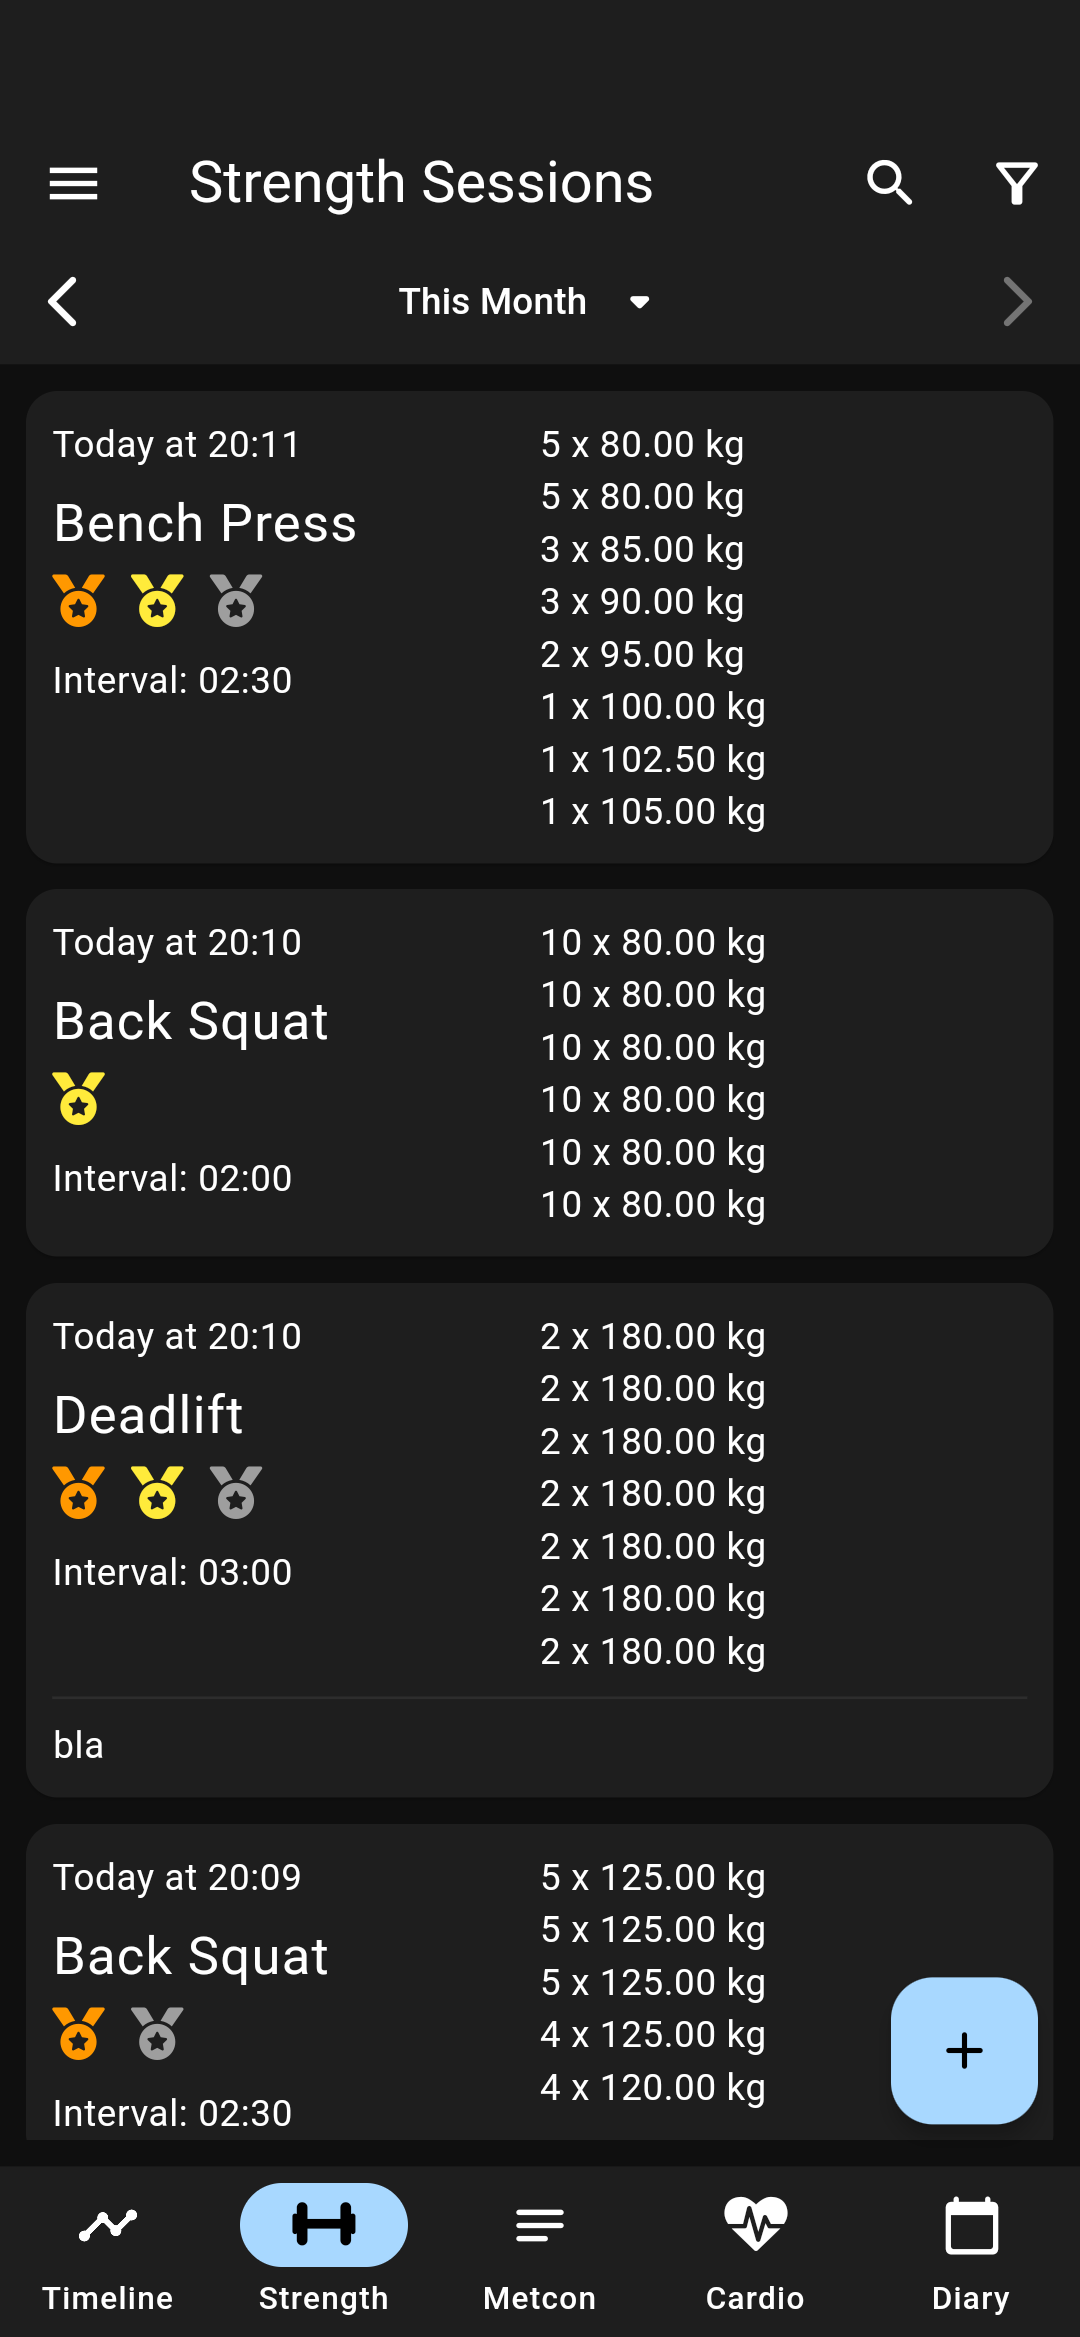
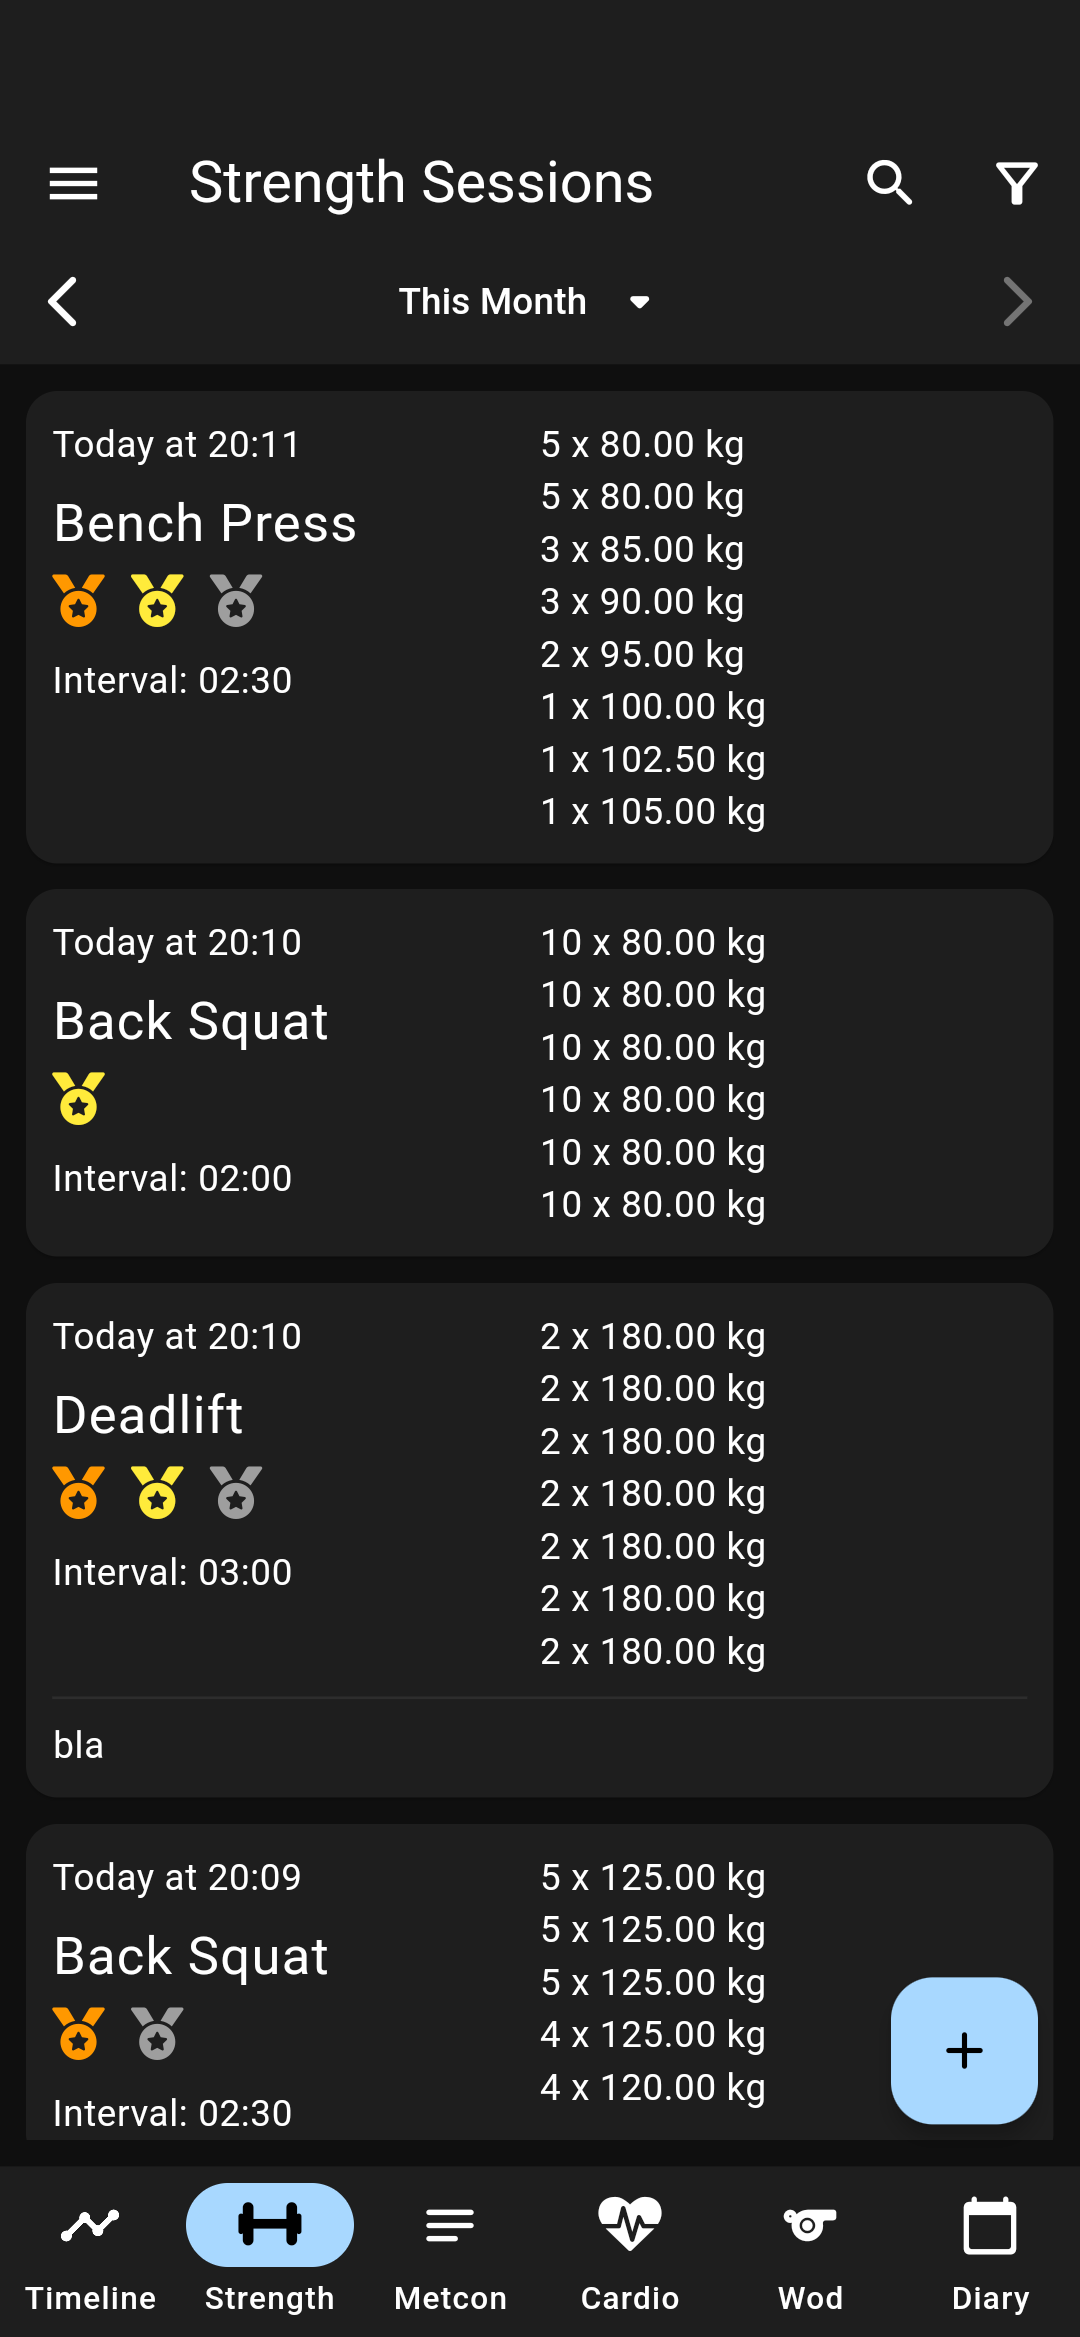
feat: update screenshots & add wod screenshots

diff --git a/sport-log-client/integration_test/screenshots.dart b/sport-log-client/integration_test/screenshots.dart
@@ -44,6 +44,8 @@ import 'package:sport_log/pages/workout/strength_sessions/strength_details_page.
 import 'package:sport_log/pages/workout/strength_sessions/strength_edit_page.dart';
 import 'package:sport_log/pages/workout/strength_sessions/strength_overview_page.dart';
 import 'package:sport_log/pages/workout/timeline/timeline_page.dart';
+import 'package:sport_log/pages/workout/wod/wod_edit_page.dart';
+import 'package:sport_log/pages/workout/wod/wod_overview_page.dart';
 import 'package:sport_log/widgets/app_icons.dart';
 import 'package:sport_log/widgets/main_drawer.dart';
 
@@ -112,6 +114,7 @@ Finder navItem(String text) => find.ancestor(
 final strengthNavItem = navItem("Strength");
 final metconNavItem = navItem("Metcon");
 final cardioNavItem = navItem("Cardio");
+final wodNavItem = navItem("Wod");
 final diaryNavItem = navItem("Diary");
 
 Finder drawerItem(String text) => find.ancestor(
@@ -358,15 +361,26 @@ void main() {
     await screenshot(tester, "route_upload");
     await backDiscardChanges(tester);
 
+    // go to wod overview
+    await tap(tester, wodNavItem);
+    expect(find.byType(WodOverviewPage), findsOneWidget);
+    await screenshot(tester, "wod_overview");
+
+    // go to wod session edit
+    await tap(tester, find.byType(WodCard).first);
+    expect(find.byType(WodEditPage), findsOneWidget);
+    await screenshot(tester, "wod_edit");
+    await backDiscardChanges(tester);
+
     // go to diary overview
     await tap(tester, diaryNavItem);
     expect(find.byType(DiaryOverviewPage), findsOneWidget);
     await screenshot(tester, "diary_overview");
 
     // go to diary session edit
-    await tap(tester, addFab);
-    await screenshot(tester, "diary_edit");
+    await tap(tester, find.byType(DiaryCard).first);
     expect(find.byType(DiaryEditPage), findsOneWidget);
+    await screenshot(tester, "diary_edit");
     await backDiscardChanges(tester);
 
     // open drawer

diff --git a/sport-log-client/SCREENSHOTS.md b/sport-log-client/SCREENSHOTS.md
@@ -29,29 +29,33 @@
   <tr>
   </tr>
     <td><img src="screenshots/route_upload.png" height="350"></td>
+    <td><img src="screenshots/wod_overview.png" height="350"></td>
+    <td><img src="screenshots/wod_edit.png" height="350"></td>
     <td><img src="screenshots/diary_overview.png" height="350"></td>
     <td><img src="screenshots/diary_edit.png" height="350"></td>
-    <td><img src="screenshots/movement_overview.png" height="350"></td>
-    <td><img src="screenshots/movement_edit.png" height="350"></td>
   <tr>
   </tr>
+    <td><img src="screenshots/drawer.png" height="350"></td>
+    <td><img src="screenshots/movement_overview.png" height="350"></td>
+    <td><img src="screenshots/movement_edit.png" height="350"></td>
     <td><img src="screenshots/timer.png" height="350"></td>
+    <td><img src="screenshots/heart_rate.png" height="350"></td>
+  <tr>
+  </tr>
     <td><img src="screenshots/map_styles.png" height="350"></td>
     <td><img src="screenshots/map.png" height="350"></td>
     <td><img src="screenshots/map_satellite.png" height="350"></td>
     <td><img src="screenshots/offline_maps.png" height="350"></td>
+    <td><img src="screenshots/platform_overview.png" height="350"></td>
   <tr>
   </tr>
-    <td><img src="screenshots/heart_rate.png" height="350"></td>
-    <td><img src="screenshots/platform_overview.png" height="350"></td>
     <td><img src="screenshots/action_provider_overview.png" height="350"></td>
     <td><img src="screenshots/action_rule_edit.png" height="350"></td>
     <td><img src="screenshots/action_event_edit.png" height="350"></td>
-  <tr>
-  </tr>
     <td><img src="screenshots/settings.png" height="350"></td>
     <td><img src="screenshots/about.png" height="350"></td>
-    <td><img src="screenshots/drawer.png" height="350"></td>
+  <tr>
+  </tr>
     <td><img src="screenshots/landing.png" height="350"></td>
     <td><img src="screenshots/login.png" height="350"></td>
   </tr>
